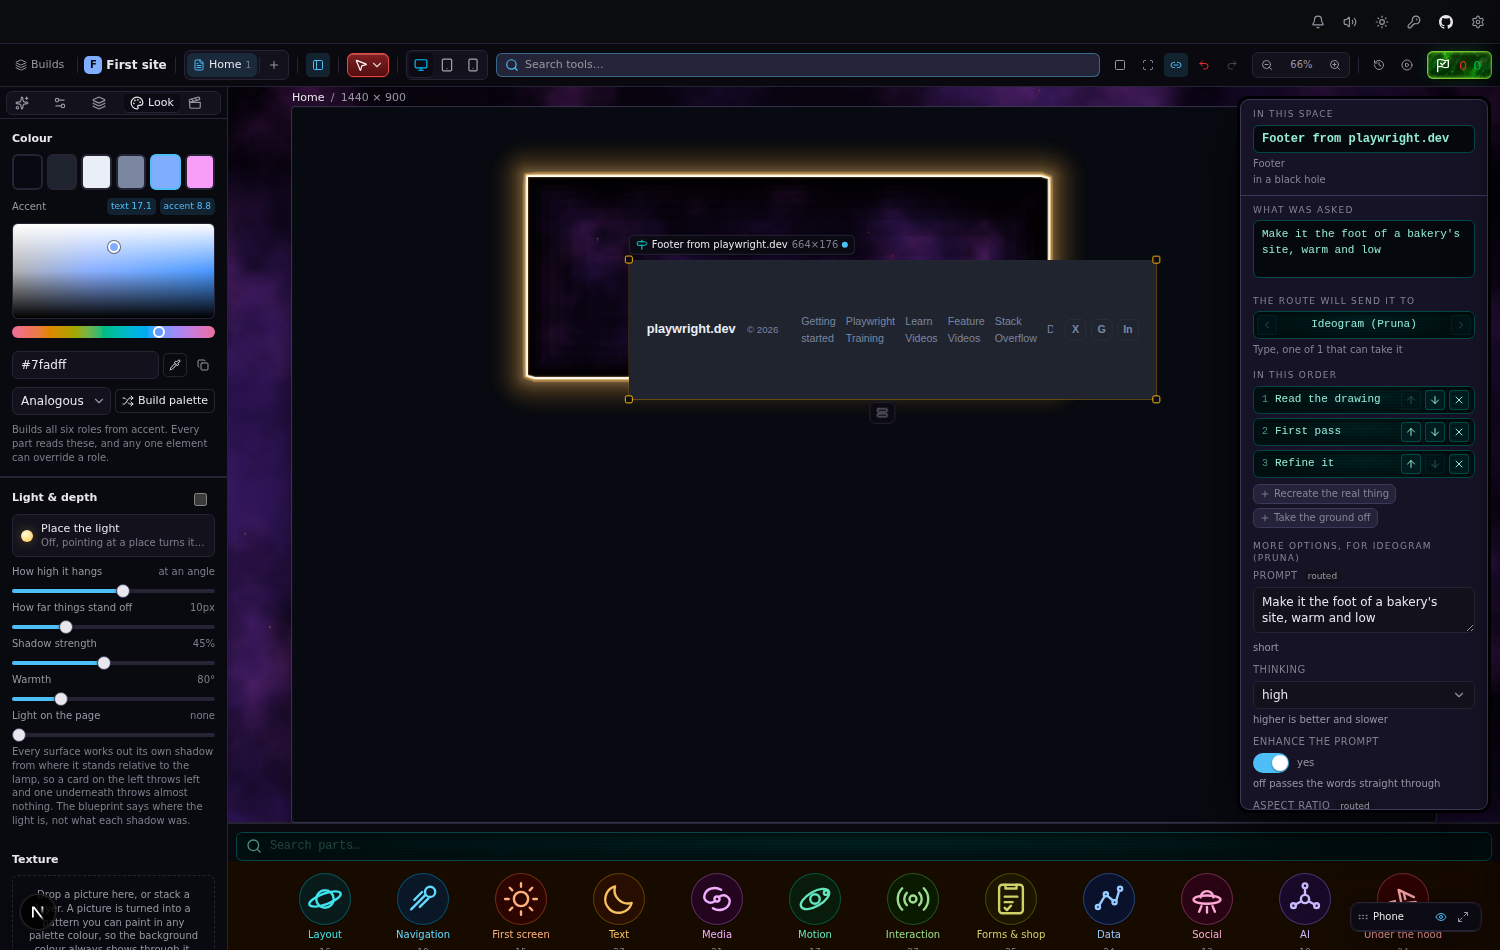
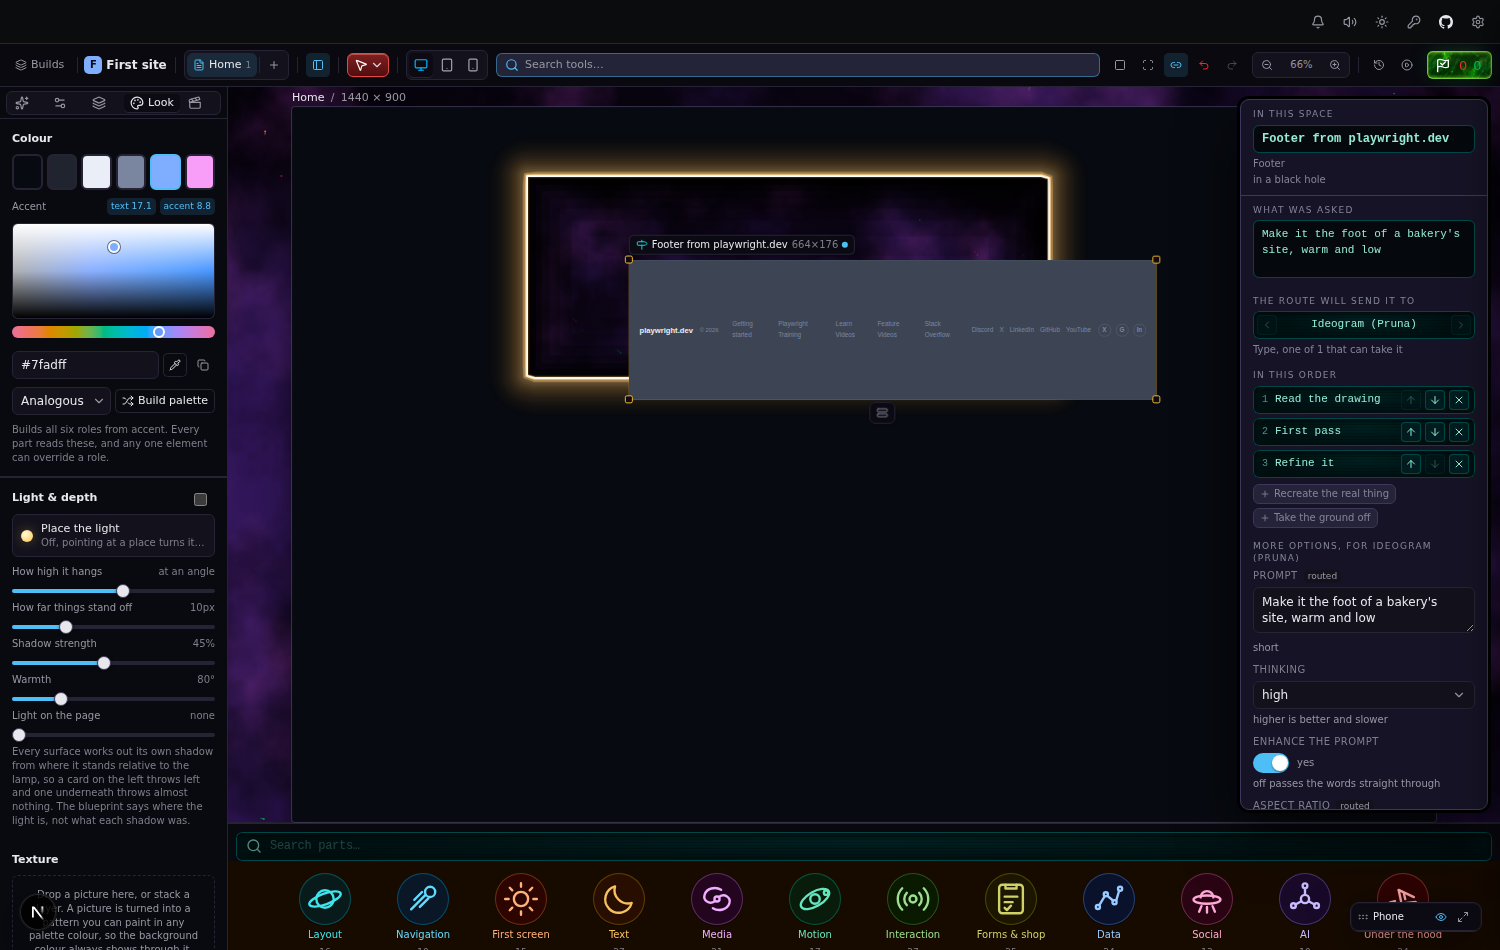
The seven shortfalls of the live read, each held to the page by number
The first night named seven things the site-read arc fell short of on
https://playwright.dev/, and left them failing. Each is fixed and held
by tests/site-live.mjs, 62 of 62.

The selector path was cut at six steps under the body and still
prefixed `body >`, so 22 of 60 candidates matched nothing and came back
"not on the page any more", two of them among the 24 the panel offered.
It walks to the body: 60 of 60 are found again at the same box.

The panel offered the 24 biggest things and the bar across the top was
the 38th. The page's blocks come first on the list, top to bottom, then
the rest biggest first; the bar is first of 24, and taken alone lands
as the library's top bar at 589.05×27.61, ratio 21.335 against the
page's 21.333. A block that is a run of small boxes is measured member
by member when taken alone, as when the page is taken whole.

A link with no words was dropped, so a bar of 12 links read as 10. It
is named by its label, title, picture's alt, icon's title or the last
part of where it goes: 12 of 12, "GitHub repository", "Discord server".
Naming them turned a band of nine company marks near the foot into a
footer; an untagged footer now needs four links that are words on the
page, and the only footer is block 9 of 9.

Parts were placed on whole pixels, which split the third decimal on the
surface's proportion (2.4034 against 2.4039) and on 16 of 36 locked
shares. The fit, the frame placement and the single take are to a
[…]

Changed region(s): [[0.3987, 0.2747, 0.7973, 0.4274]]

diff --git a/src/features/studio/siteRead.ts b/src/features/studio/siteRead.ts
@@ -37,11 +37,19 @@ export interface Candidate {
 export const CANDIDATES = (cap: number): Candidate[] => {
   const out: Candidate[] = [];
   const seen = new Set<string>();
+  /*
+   * A selector the element can be found again by. Walked all the way up
+   * to the body, every step a child combinator: it was cut at six steps
+   * and still prefixed `body >`, so anything seven deep, which is most of
+   * a real page, gave a path that matched nothing and came back "not on
+   * the page any more" when pressed. A page nested past forty is left as a
+   * descendant of the body, which is still one element on any page seen.
+   */
   const path = (el: Element): string => {
     if (el.id && /^[A-Za-z][\w-]*$/.test(el.id)) return `#${el.id}`;
     const bits: string[] = [];
     let node: Element | null = el;
-    while (node && node !== document.body && bits.length < 6) {
+    while (node && node !== document.body && bits.length < 40) {
       const parent: Element | null = node.parentElement;
       const tag = node.tagName.toLowerCase();
       if (!parent) { bits.unshift(tag); break; }
@@ -49,7 +57,7 @@ export const CANDIDATES = (cap: number): Candidate[] => {
       bits.unshift(same.length > 1 ? `${tag}:nth-of-type(${same.indexOf(node) + 1})` : tag);
       node = parent;
     }
-    return `body > ${bits.join(" > ")}`;
+    return `body ${node === document.body ? ">" : ""} ${bits.join(" > ")}`.replace(/\s+/g, " ");
   };
   const name = (el: Element, box: DOMRect): string => {
     const tag = el.tagName.toLowerCase();
@@ -160,8 +168,22 @@ export const MEASURE = (selector: string) => {
     if (text.length >= 40) break;
   }
 
+  /* A link's words: what is written on it, else what it is called. A link
+     that is only an icon (a GitHub mark, a Discord mark) has no text and
+     was dropped, so a bar of twelve links read as ten; it is named by its
+     label, its title, its picture's alt, its icon's title, or the last
+     part of where it goes, in that order. */
+  const nameOfLink = (a: Element): string => {
+    const said = (a.textContent ?? "").replace(/\s+/g, " ").trim();
+    if (said) return said;
+    const label = a.getAttribute("aria-label") || a.getAttribute("title") || a.querySelector("img")?.getAttribute("alt") || a.querySelector("svg title")?.textContent || "";
+    if (label.trim()) return label.replace(/\s+/g, " ").trim();
+    const href = (a as HTMLAnchorElement).href || "";
+    const tail = href.replace(/[/#?]+$/, "").split(/[/#?]/).filter(Boolean).pop() ?? "";
+    return /^[\w.-]{1,40}$/.test(tail) ? tail : "";
+  };
   const links = Array.from(el.querySelectorAll("a[href]")).slice(0, 30).map((a) => ({
-    words: (a.textContent ?? "").replace(/\s+/g, " ").trim().slice(0, 60),
+    words: nameOfLink(a).slice(0, 60),
     href: (a as HTMLAnchorElement).href,
   })).filter((l) => l.words);
 
@@ -184,21 +206,56 @@ export const MEASURE = (selector: string) => {
      body, and every block read as painted on nothing. The nearest painted
      colour and the nearest picture behind, each found separately. */
   const seeThrough = (c: string) => { const m = /rgba?\(\s*[\d.]+[,\s]+[\d.]+[,\s]+[\d.]+(?:[,/\s]+([\d.]+))?/i.exec(c); return !m || (m[1] !== undefined && Number(m[1]) < 0.05); };
+  /* A gradient is paint. A first screen painted with a linear gradient
+     of three dark stops read as painted on nothing, and its white words
+     landed on no ground. The colour of a gradient, for a part that takes
+     one colour, is the mean of its stops: dark for a dark gradient, which
+     is what a person sees behind the words. */
+  const gradientColour = (image: string): string | null => {
+    if (!/gradient\(/i.test(image)) return null;
+    const stops = Array.from(image.matchAll(/rgba?\(\s*([\d.]+)[,\s]+([\d.]+)[,\s]+([\d.]+)(?:[,/\s]+([\d.]+))?\s*\)/gi))
+      .map((m) => [Number(m[1]), Number(m[2]), Number(m[3]), m[4] === undefined ? 1 : Number(m[4])])
+      .filter((c) => c[3]! >= 0.05);
+    if (!stops.length) return null;
+    const mean = (i: number) => Math.round(stops.reduce((n, c) => n + c[i]!, 0) / stops.length);
+    return `rgb(${mean(0)}, ${mean(1)}, ${mean(2)})`;
+  };
+  const painted = (s: CSSStyleDeclaration): string | null => (!seeThrough(s.backgroundColor) ? s.backgroundColor : gradientColour(s.backgroundImage));
   let behind: string | null = null;
   let behindPicture: string | undefined;
   for (let up = el.parentElement; up; up = up.parentElement) {
     const us = getComputedStyle(up);
-    if (behind === null && !seeThrough(us.backgroundColor)) behind = us.backgroundColor;
+    if (behind === null) behind = painted(us);
     if (!behindPicture) behindPicture = pictureOf(us.backgroundImage);
     if (behind !== null && behindPicture) break;
   }
+  /* Nothing painted all the way up is the browser's own canvas, which is
+     white, or black for a page that asks for a dark scheme and nothing
+     else. A band of cards on a page whose body paints nothing read as
+     painted on nothing, took the site's dark surface, and drew its dark
+     titles on it. */
+  if (behind === null) {
+    const scheme = getComputedStyle(document.documentElement).colorScheme || "";
+    behind = /\bdark\b/.test(scheme) && !/\blight\b/.test(scheme) ? "rgb(0, 0, 0)" : "rgb(255, 255, 255)";
+  }
   if (!ground && behindPicture) images.push({ src: new URL(behindPicture, location.href).toString(), w: Math.round(box.width), h: Math.round(box.height), alt: "", ground: true, behind: true } as never);
 
-  const kids = Array.from(el.children).filter((c) => {
+  /* The children that are the structure. A page builder wraps a band's
+     contents in a container inside a section, and a row inside that, so
+     the section's one child was one box and a row of three cards read as
+     a band of words. A wrapper is opened while it is the only thing
+     inside: the children are the first level with more than one. */
+  const visibleKids = (e: Element): Element[] => Array.from(e.children).filter((c) => {
     const r = c.getBoundingClientRect();
     const cs = getComputedStyle(c);
     return r.width > 8 && r.height > 8 && cs.display !== "none";
   });
+  let kids = visibleKids(el);
+  for (let opened = 0; kids.length === 1 && opened < 4; opened++) {
+    const inner = visibleKids(kids[0]!);
+    if (!inner.length) break;
+    kids = inner;
+  }
   const children = kids.slice(0, 24).map((c) => {
     const r = c.getBoundingClientRect();
     return { x: Math.round(r.left - box.left), y: Math.round(r.top - box.top), w: Math.round(r.width), h: Math.round(r.height) };
@@ -222,7 +279,7 @@ export const MEASURE = (selector: string) => {
     buttons,
     images,
     paint: {
-      bg: style.backgroundColor,
+      bg: painted(style) ?? style.backgroundColor,
       text: style.color,
       behind,
       border,

diff --git a/src/features/studio/FromASite.tsx b/src/features/studio/FromASite.tsx
@@ -39,7 +39,7 @@ import { allowed, READ_DEADLINE_MS } from "./siteFetch";
 import { boundaryBox, centroid, type Space } from "./space";
 import { useStudio } from "./store";
 import { lockNow } from "./surfaceRun";
-import { fitToSurface, mergeReadings, pageBlocks, saidOf, selectorsOf, type Block } from "./zipImport";
+import { fine, fitToSurface, mergeReadings, offered, pageBlocks, saidOf, scaledType, selectorsOf, type Block } from "./zipImport";
 
 type Source =
   | { kind: "site"; url: string; host: string }
@@ -136,7 +136,9 @@ export function FromASite({ space }: { space: Space }) {
     play("tick");
     const { source } = stage;
     setStage({ at: "busy", says: "Measuring it…" });
-    const got = await measure(source, [c.selector]);
+    // A block that is a run of small boxes is measured member by member
+    // and read as one, the same as when the whole page is taken.
+    const got = await measure(source, selectorsOf(c));
     if (typeof got === "string" || !got.readings[0]) { setStage({ at: "said", says: typeof got === "string" ? got : "That element is not on the page any more." }); return; }
 
     /*
@@ -145,7 +147,7 @@ export function FromASite({ space }: { space: Space }) {
      * (`recreate.ts`), and the words, the colours and the type are the
      * page's own.
      */
-    const made = recreateFrom(got.readings[0]);
+    const made = recreateFrom(mergeReadings(got.readings));
     const store = useStudio.getState();
     /*
      * Landed at the middle of the space, fitted to it, so it is inside it
@@ -161,9 +163,9 @@ export function FromASite({ space }: { space: Space }) {
     const w0 = Number(made.patch.w) || 320;
     const h0 = Number(made.patch.h) || 120;
     const fit = Math.min(1, (room.w * 0.9) / w0, (room.h * 0.9) / h0);
-    const w = Math.max(24, Math.round(w0 * fit));
-    const h = Math.max(16, Math.round(h0 * fit));
-    store.addNode(String(made.patch.featureId), Math.round(cx - w / 2), Math.round(cy - h / 2), { ...made.patch, w, h });
+    const w = Math.max(24, fine(w0 * fit));
+    const h = Math.max(16, fine(h0 * fit));
+    store.addNode(String(made.patch.featureId), fine(cx - w / 2), fine(cy - h / 2), { ...made.patch, w, h, font: scaledType(made.patch.font, fit) });
     // Adding picks what was added, which would swap this panel for the
     // part's. The space stays picked, so the line under this is read where
     // it was asked for; the part is on the board, a press away.
@@ -208,7 +210,7 @@ export function FromASite({ space }: { space: Space }) {
     const landed = readings.map((reading, i) => {
       const made = recreateFrom(reading);
       const at = fit.places[i]!;
-      useStudio.getState().addNode(String(made.patch.featureId), at.x, at.y, { ...made.patch, w: at.w, h: at.h });
+      useStudio.getState().addNode(String(made.patch.featureId), at.x, at.y, { ...made.patch, w: at.w, h: at.h, font: scaledType(made.patch.font, fit.scale) });
       return made;
     });
     // Locked as the page had it: the layout is the specification.
@@ -301,8 +303,9 @@ export function FromASite({ space }: { space: Space }) {
             <LayoutTemplate className="size-3" />
             Take the whole page, {pageBlocks(stage.candidates).length} block{pageBlocks(stage.candidates).length === 1 ? "" : "s"}
           </button>
+          {/* The page's own blocks first, top to bottom, then the rest biggest first: the bar across the top is on the list. */}
           <ul data-site-candidates="" className="max-h-[220px] space-y-1 overflow-y-auto">
-            {stage.candidates.slice(0, 24).map((c) => (
+            {offered(stage.candidates).map((c) => (
               <li key={c.selector}>
                 <button
                   type="button"

diff --git a/src/features/studio/zipImport.ts b/src/features/studio/zipImport.ts
@@ -377,14 +377,60 @@ export function fitToSurface(surface: Box, pageW: number, blocks: readonly Box[]
   const w = Math.max(1, pageW);
   const scale = surface.w / w;
   const bottom = blocks.reduce((m, b) => Math.max(m, b.y + b.h), 0);
-  const h = Math.max(surface.h, Math.round(bottom * scale));
+  /*
+   * To a hundredth of a pixel, not a whole one. Placed on whole pixels, a
+   * 60px bar on a 3077px page landed 31px tall on a 1573px surface: a
+   * share of 0.0197 against the page's 0.0195, and 16 of 36 locked shares
+   * split at the third decimal that way. A hundredth is a thousandth of
+   * a share on the smallest surface anyone draws, and nothing on the board
+   * can see it.
+   */
+  const h = Math.max(surface.h, fine(bottom * scale));
   const places = blocks.map((b) => ({
-    x: Math.round(surface.x + b.x * scale),
-    y: Math.round(surface.y + b.y * scale),
-    w: Math.max(24, Math.round(b.w * scale)),
-    h: Math.max(16, Math.round(b.h * scale)),
+    x: fine(surface.x + b.x * scale),
+    y: fine(surface.y + b.y * scale),
+    w: Math.max(24, fine(b.w * scale)),
+    h: Math.max(16, fine(b.h * scale)),
   }));
   return { surface: { x: surface.x, y: surface.y, w: surface.w, h }, places, scale };
+}
+
+/** A board length to the hundredth of a pixel: as fine as the layout needs, as plain as a number can stay. */
+export const fine = (v: number): number => Math.round(v * 100) / 100;
+
+/**
+ * The type, scaled as the box was.
+ *
+ * A part's `size` is a multiple of the site's base, and the reading sets
+ * it from the page's own pixels. Laid on a surface half the page's width,
+ * a first screen kept its 48px headline in a box half as tall and the
+ * words were cut off at the top. The words are scaled by the same number
+ * as the box, so a 60px line in a 600px band lands near 30px in a 300px
+ * one. The theme floors `size` at 0.6, so a surface drawn narrower than
+ * six tenths of the page still lands its words a shade larger than the
+ * page had them; that is the theme's floor, named here rather than moved.
+ */
+export function scaledType<F extends { size?: number }>(font: F | null | undefined, scale: number): F {
+  const had = (font ?? {}) as F;
+  const size = (typeof had.size === "number" && Number.isFinite(had.size) ? had.size : 1) * scale;
+  return { ...had, size: Math.round(size * 100) / 100 };
+}
+
+/**
+ * What the panel offers to press, in order: the page's own blocks first,
+ * top to bottom, then everything else biggest first.
+ *
+ * The list was the biggest 24 of 60, and the bar across the top of a real
+ * page is short, so it was the 38th thing and not on the list at all: the
+ * one thing a person points at first could only be had by taking the
+ * whole page. The blocks are what a person means by the page; the rest is
+ * what is inside them.
+ */
+export function offered(candidates: readonly Block[], cap = 24): Block[] {
+  const blocks = pageBlocks(candidates);
+  const same = (a: Box, b: Box) => Math.abs(a.x - b.x) <= 2 && Math.abs(a.y - b.y) <= 2 && Math.abs(a.w - b.w) <= 2 && Math.abs(a.h - b.h) <= 2;
+  const rest = candidates.filter((c) => !blocks.some((b) => same(b.box, c.box) || (b.members ?? []).includes(c.selector)));
+  return [...blocks, ...rest].slice(0, cap);
 }
 
 /* ------------------------------------------------------------------ */

diff --git a/src/features/studio/parts/theme.ts b/src/features/studio/parts/theme.ts
@@ -187,7 +187,16 @@ export function themeFrom(format: FormatValues, look?: Look): Theme {
 
 /** "a, b, c" → ["a","b","c"], with a fallback list when nothing is typed. */
 export function items(content: string, fallback: string[]): string[] {
-  const list = content.split(/[,\n]/).map((s) => s.trim()).filter(Boolean);
+  /*
+   * One item per line when there are lines, else one per comma. A content
+   * typed on one line, "Home, About, Contact", is a list by its commas; a
+   * content with lines in it is a list by its lines, and a comma inside a
+   * line is the line's own. A first screen recreated from a real page had
+   * its headline "…for testing, scripting, and AI agents." cut at its
+   * commas into three items, and the part drew the first as the line and
+   * the second as the sentence under it.
+   */
+  const list = (content.includes("\n") ? content.split("\n") : content.split(",")).map((s) => s.trim()).filter(Boolean);
   return list.length ? list : fallback;
 }
 

diff --git a/src/features/studio/recreate.ts b/src/features/studio/recreate.ts
@@ -424,7 +424,15 @@ const FOOTER: Recreatable = {
   match: (r) => {
     if (r.down < 0.6 || aspect(r) < 2) return 0;
     if (r.tag === "footer" || r.role === "contentinfo") return 1;
-    return r.links.length >= 4 ? 0.7 : 0;
+    /*
+     * Untagged, a footer is a band of written links low on the page. Only
+     * links that are words on the page count: once icon links were named
+     * by their labels, a band of nine company marks near the foot read as
+     * a footer with nine links, and it is a band of pictures.
+     */
+    const said = r.text.map((t) => t.words.trim()).filter(Boolean);
+    const written = r.links.filter((l) => said.some((w) => w === l.words || w.includes(l.words)));
+    return written.length >= 4 ? 0.7 : 0;
   },
   configure: (r) => {
     const name = r.from.host.replace(/^www\./, "");

diff --git a/src/features/studio/look.ts b/src/features/studio/look.ts
@@ -77,6 +77,13 @@ export function parseColor(v: string): Oklch | null {
   const s = v.trim();
   if (!s) return null;
   if (s.startsWith("#")) return fromHex(s);
+  /* The browser's own form. A colour measured off a live page arrives as
+     `rgb(48, 56, 70)`, which is what getComputedStyle reports, and a
+     parser that knew hex and oklch alone dropped every one of them: a
+     part recreated from a page carried the page's colours on the node and
+     drew the site's own, and a white bar drew dark. */
+  const rgb = /^rgba?\(\s*([\d.]+)\s*[,\s]\s*([\d.]+)\s*[,\s]\s*([\d.]+)/i.exec(s);
+  if (rgb) return rgbToOklch(Number(rgb[1]) / 255, Number(rgb[2]) / 255, Number(rgb[3]) / 255);
   const m = /^oklch\(\s*([\d.]+)%?\s+([\d.]+)\s+([\d.]+)/i.exec(s);
   if (m) {
     const l = Number(m[1]);

diff --git a/src/features/studio/store.ts b/src/features/studio/store.ts
@@ -784,9 +784,12 @@ export const HUES = [265, 200, 160, 30, 340, 90, 240, 15];
  * once.
  */
 export function placeInFrame(x: number, y: number, w: number, frameWidth: number): { x: number; y: number } {
+  // To a hundredth of a pixel: a part laid at a share of a page keeps the
+  // share it was laid at, and a hundredth is nothing the board can show.
+  const fine = (v: number) => Math.round(v * 100) / 100;
   return {
-    x: Math.round(w >= frameWidth ? 0 : Math.min(Math.max(0, x), frameWidth - w)),
-    y: Math.round(Math.max(0, y)),
+    x: fine(w >= frameWidth ? 0 : Math.min(Math.max(0, x), frameWidth - w)),
+    y: fine(Math.max(0, y)),
   };
 }
 

diff --git a/docs/RECREATE-FINDINGS.md b/docs/RECREATE-FINDINGS.md
@@ -50,6 +50,25 @@ The pieces, in the order a page passes through them:
   is often a `<header>`) was named "the bar across the top" in the list
   while the catalogue rightly made it a first screen. A header is named a
   bar only at a bar's height.
+- **Fixed.** A candidate's selector was cut at six steps under the body
+  and still prefixed `body >`, so anything seven deep, 22 of the 60
+  things listed on playwright.dev, matched nothing and came back "not on
+  the page any more" when pressed; two of those were among the 24 the
+  panel offered. The path walks all the way to the body: 60 of 60 are
+  found again at the same box.
+- **Fixed.** A link with no words (a GitHub mark, a Discord mark) was
+  dropped, so a bar of 12 links read as 10. It is named by its label,
+  its title, its picture's alt, its icon's title or the last part of
+  where it goes: 12 of 12, "GitHub repository", "Discord server".
+- **Fixed.** A block's children were its direct children, and a page
+  builder wraps a band's contents in a container and a row, so a row of
+  three cards read as one child and landed as a band of words. A wrapper
+  that is the only thing inside is opened, up to four deep: the card row
+  is three cards, three columns, the page's own titles.
+- **Fixed.** A gradient was not paint: a first screen painted with three
+  dark stops read as painted on nothing and its white words landed on no
+  ground. The mean of a gradient's stops is its colour, for the block's
+  own paint and for what is behind it: rgb(33, 40, 40), lightness 0.15.
 - **Open.** Web fonts the page loads from the network are not fetched on
   either door: the zip's page may not ask the network for anything, and
   the address door reads only the one page. Type lands as the fallback
@@ -84,6 +103,11 @@ The pieces, in the order a page passes through them:
 - **Fixed.** There was no list-of-links part, so a sidebar of pages or a
   list of resources landed as a band of words. Three or more links that
   are most of a block's words are a list of links, every link a line.
+- **Fixed.** Untagged, a footer was any band low on the page with four
+  links. Once icon links were named, a band of nine company marks near
+  the foot read as a footer with nine links. Only links that are words on
+  the page count toward an untagged footer; the marks are a band of
+  pictures for the grounded step.
 - **Open.** The Zen Garden's design list pairs each design with its
   author as two links; the list part shows them as consecutive lines.
   The page's pairing is not a shape the list part has.
@@ -102,6 +126,18 @@ The pieces, in the order a page passes through them:
 - **Fixed.** Adding a part picks it, which swapped the space's panel for
   the part's and lost the line that says what happened. The space stays
   picked.
+- **Fixed.** Parts were placed on whole pixels, so a 60px bar on a 3077px
+  page landed 31px tall on a 1573px surface and 16 of 36 locked shares
+  split at the third decimal against the page; the surface's proportion
+  was 2.4034 against the page's 2.4039. The fit, the frame placement and
+  the single take are to a hundredth of a pixel: 2.40397 against 2.40391,
+  the largest share drift 0.00006 of the page.
+- **Fixed.** The panel offered the 24 biggest things, and the bar across
+  the top of playwright.dev was the 38th, so the one thing a person points
+  at first could only be had by taking the whole page. The page's blocks
+  come first on the list, top to bottom, then the rest biggest first; a
+  block that is a run of small boxes is measured member by member when
+  taken alone, as when the page is taken whole.
 
 ### The part (how it draws)
 
@@ -109,6 +145,28 @@ The pieces, in the order a page passes through them:
   started" and "Learn more" buttons when it was given none. The reading
   is right (the page had no buttons there); the part fills the gap with
   its defaults. Left alone: the part's behaviour, not the reading's.
+- **Fixed.** The colour parser knew hex and oklch and not the browser's
+  own `rgb()`, so every colour measured off a page was carried on the
+  node and dropped by the part: a white bar drew the site's dark surface,
+  and the footer's dark paint on the first night was the site's own,
+  not the page's. `rgb()` and `rgba()` parse; the bar draws oklch(1 0 0),
+  the first screen rgb(33, 40, 40).
+- **Fixed.** A part landed at half the page's width kept the page's type
+  at full size: a 48px headline in a box half as tall, cut off at the
+  top. The type is scaled by the same number as the box, so the first
+  screen draws its headline at 28.8px with nothing cut off. The theme
+  floors `size` at 0.6, so a surface drawn narrower than six tenths of
+  the page still lands its words a shade larger than the page had them.
+- **Open, by instruction.** The header part folds its links under a menu
+  below 640px, so the bar taken alone into a 655px space lands 589px
+  wide and shows its name and a menu; laid on the whole page's surface
+  at 654.5px it shows its links. The part's own rule, not the reading's.
+- **Fixed.** Every part split its contents at commas as well as at
+  lines, so a headline with commas in it, "…for testing, scripting, and
+  AI agents.", was three items: the first drawn as the line, the second as
+  the sentence under it, the third lost. Contents with lines in them are
+  split at lines only; a content on one line is still a list by its
+  commas. The first screen draws its 82-character headline whole.
 - **Open.** The card-grid part keeps each card's title and not its
   sentence; the filler under a title on a landed card grid is the
   part's, not the page's.
